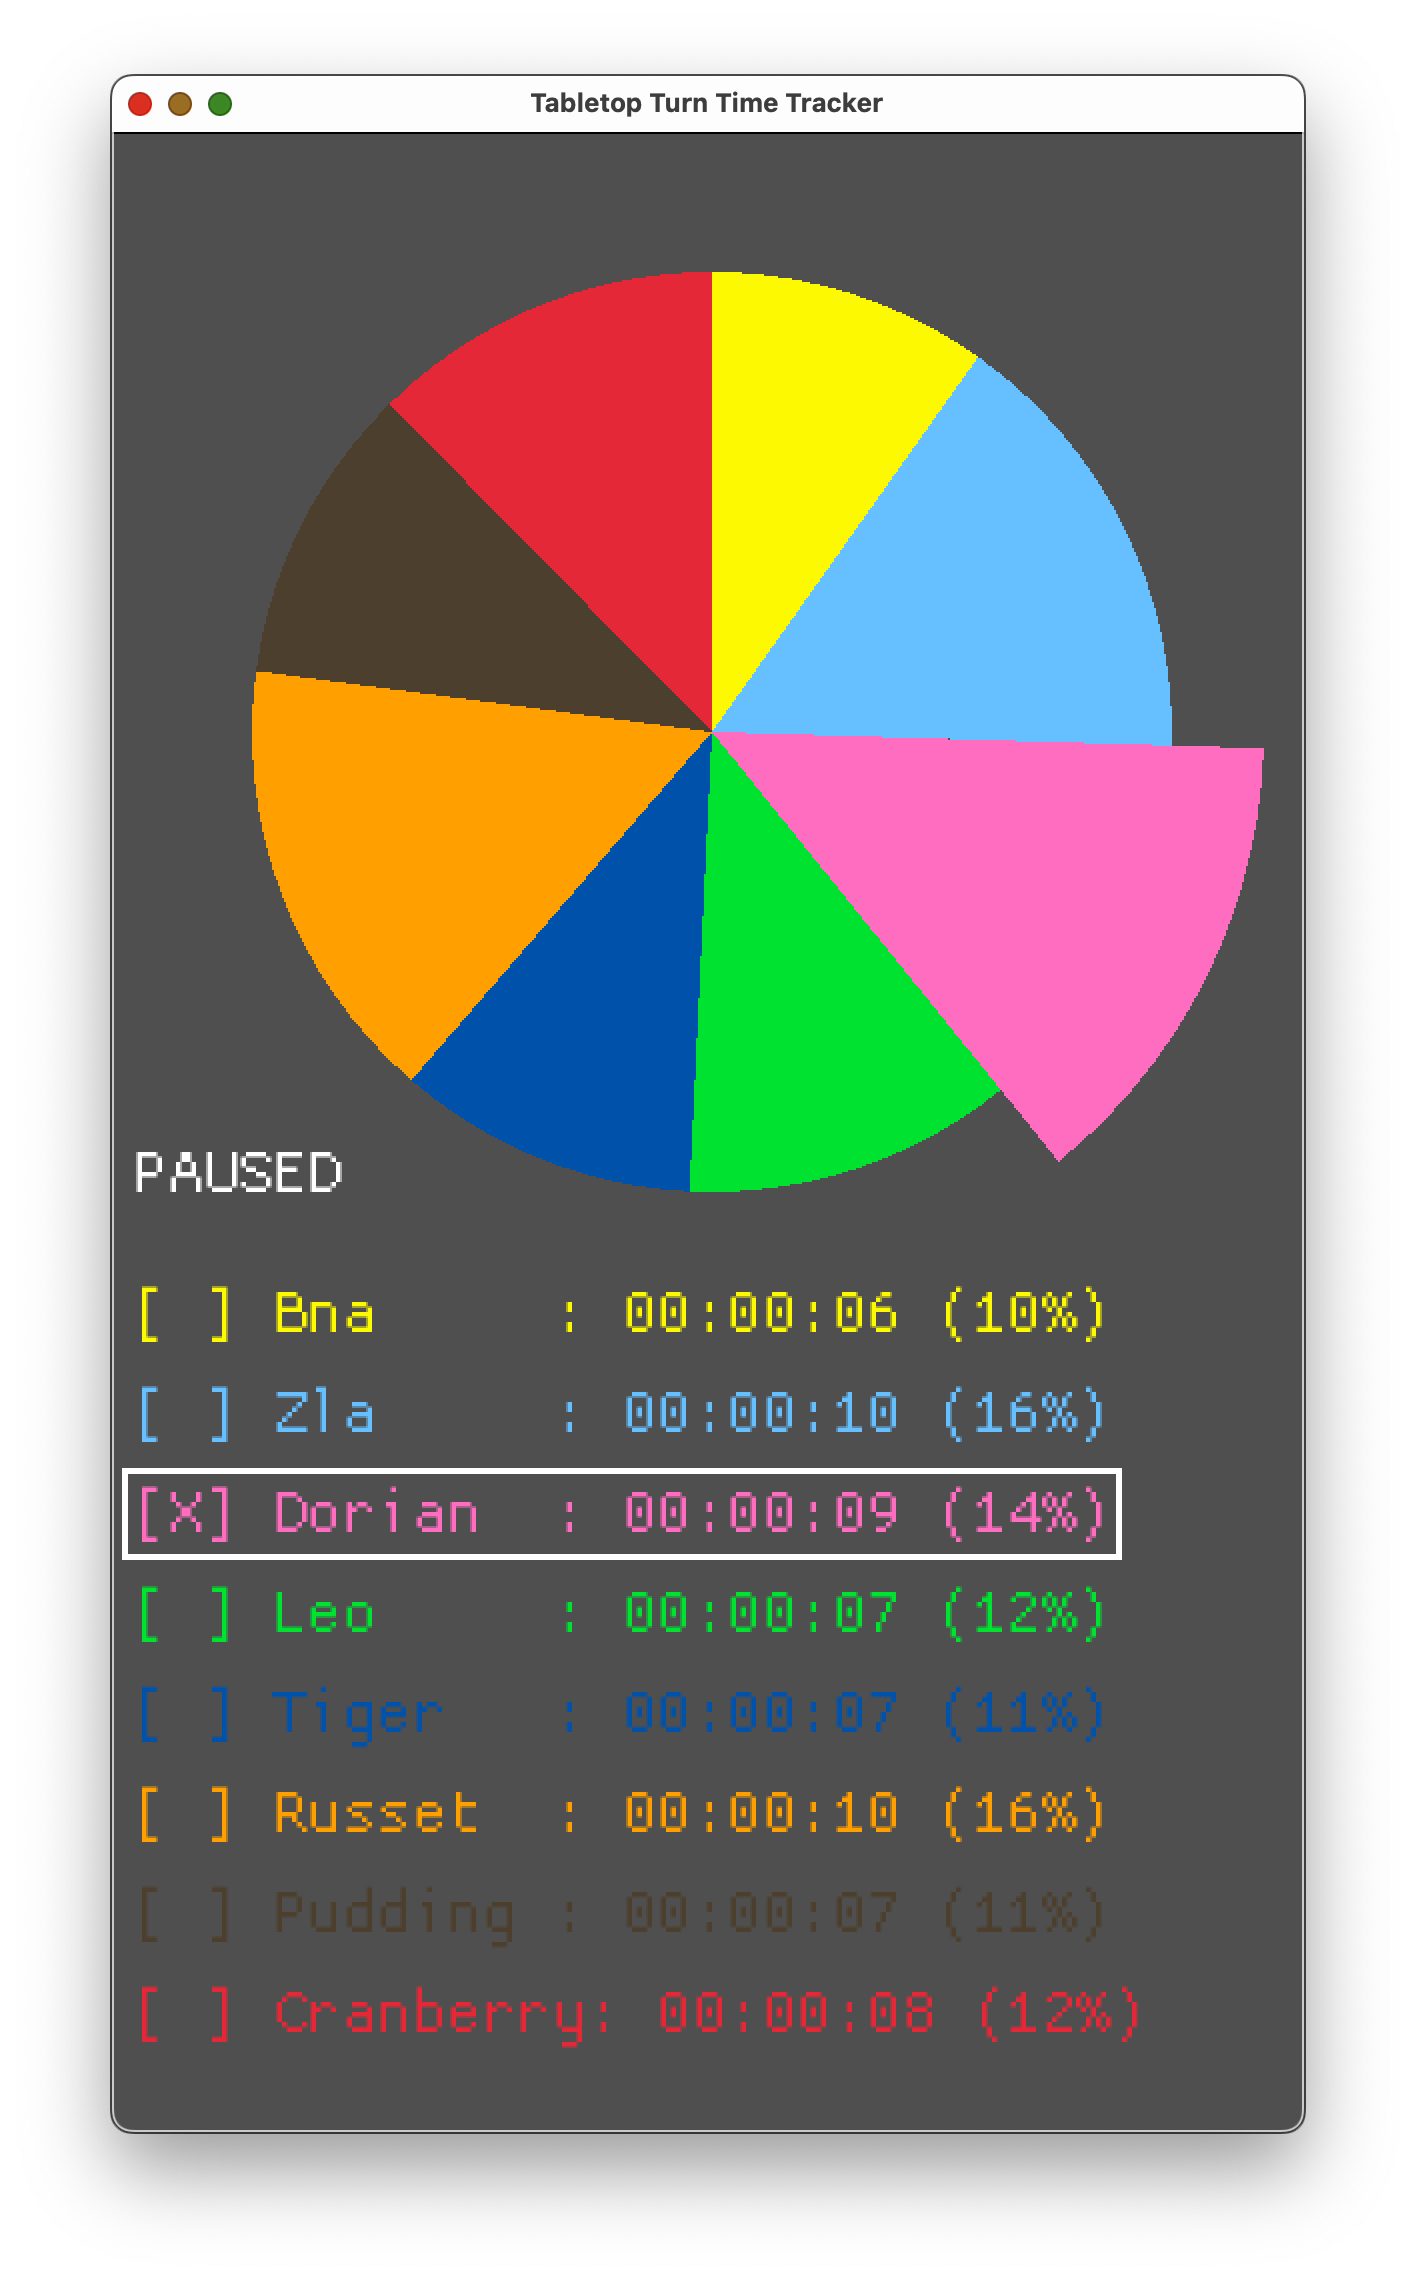
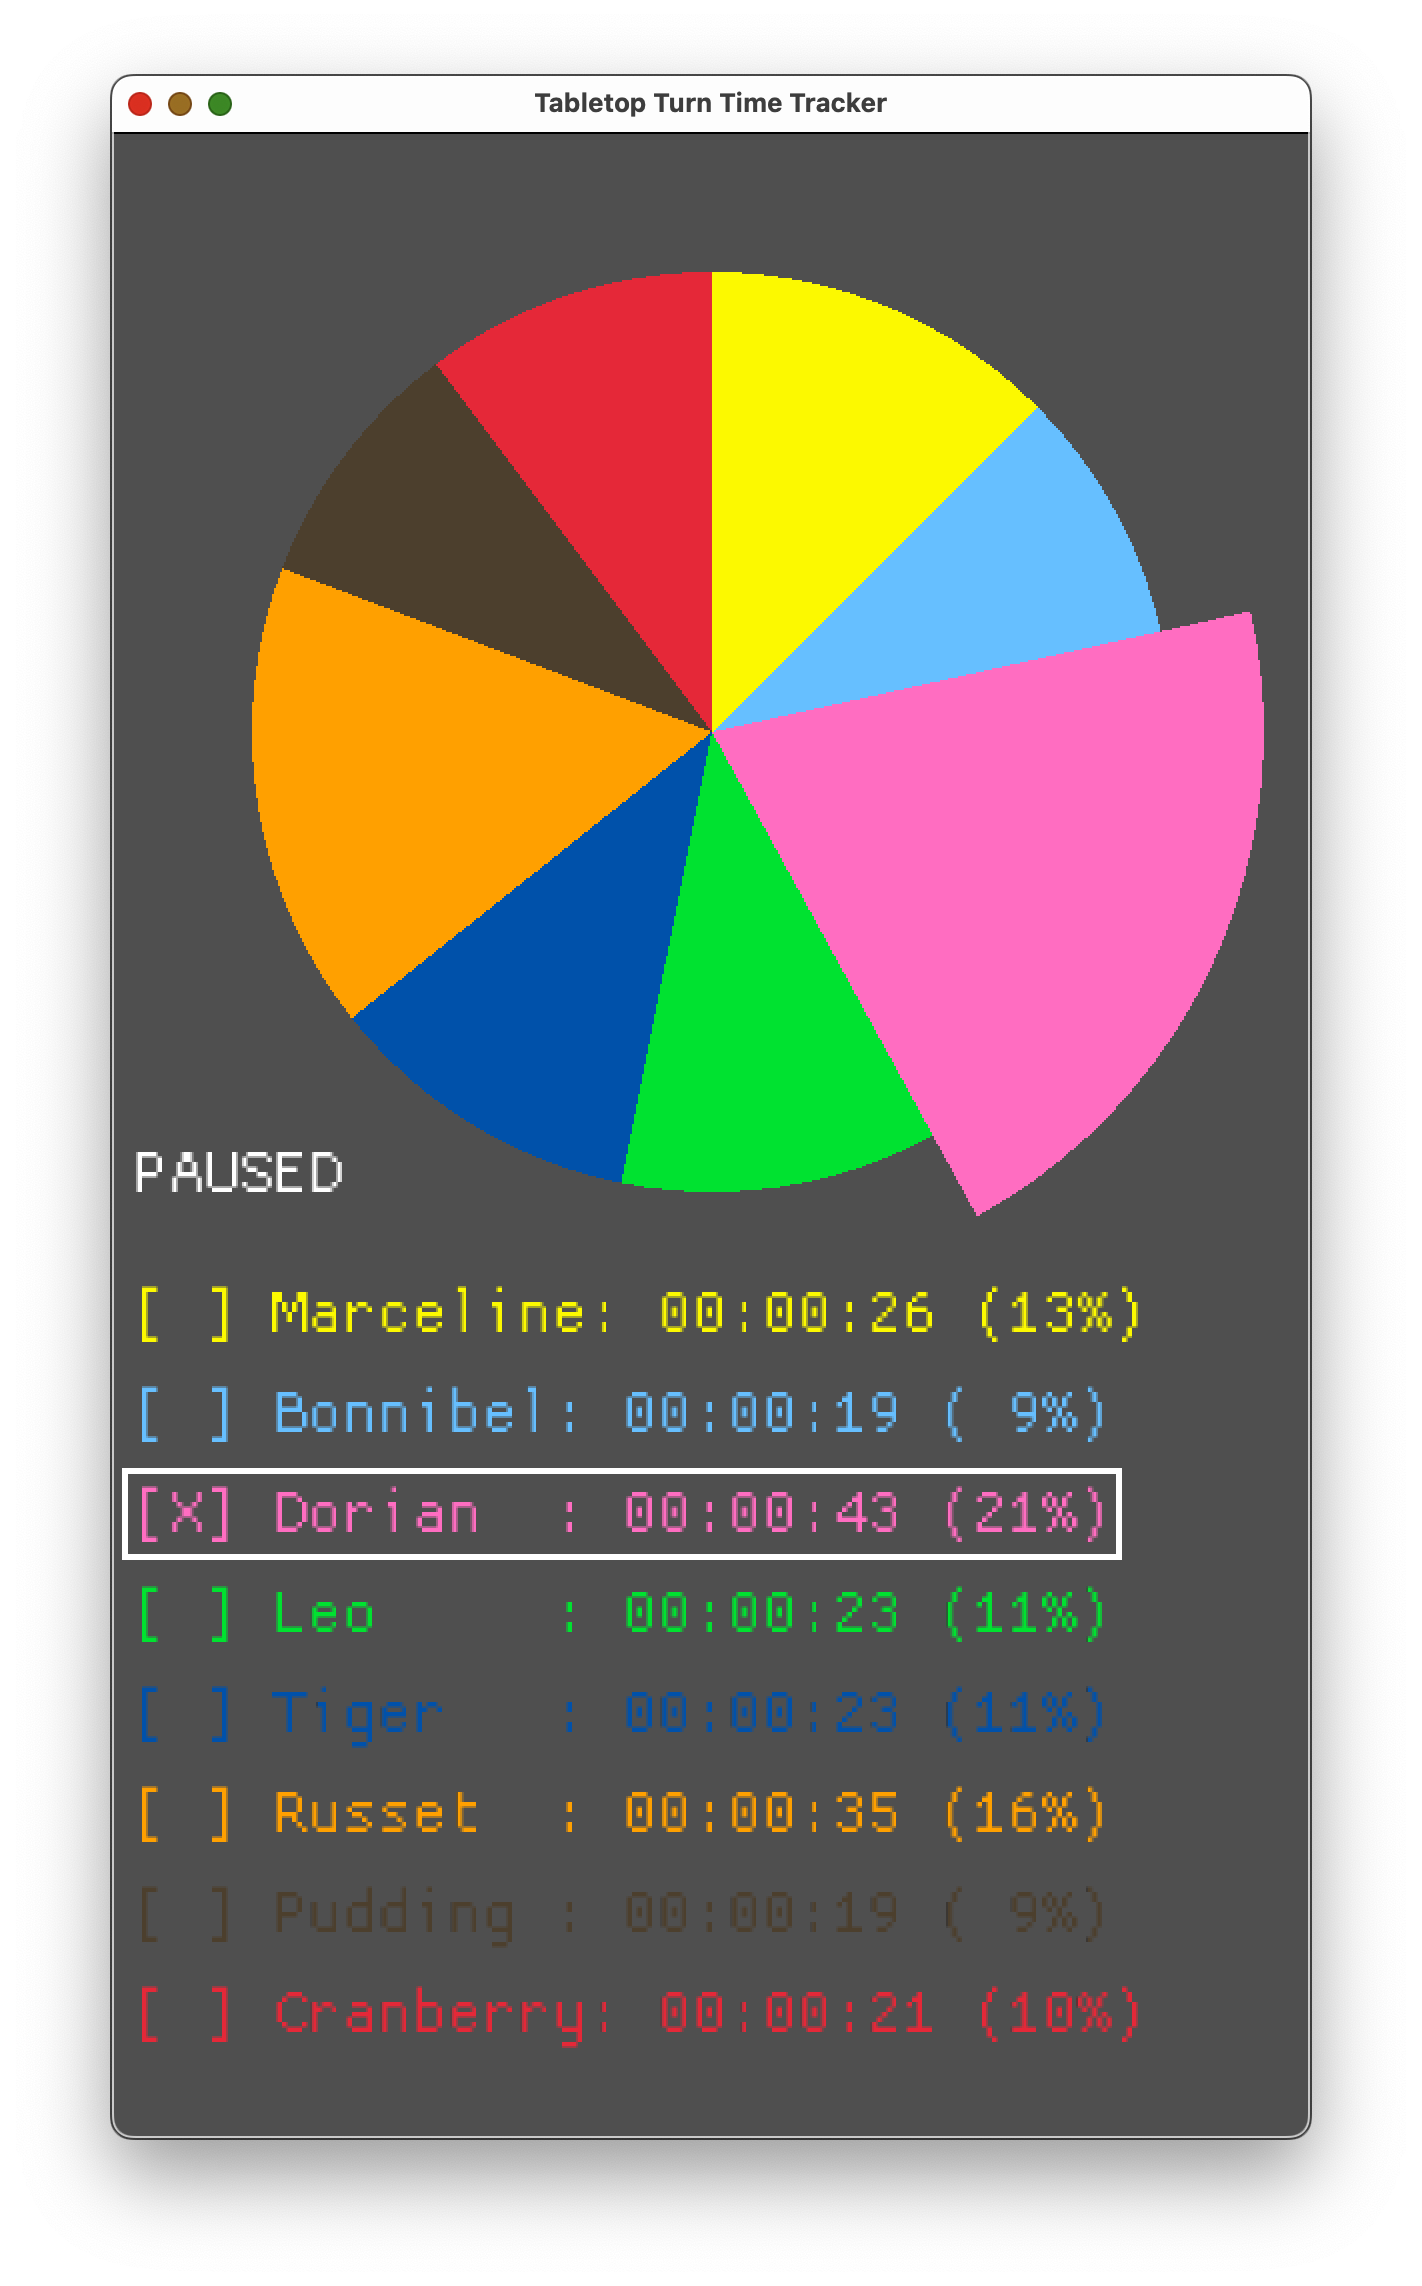
Change names in example

diff --git a/src/main.rs b/src/main.rs
@@ -12,8 +12,8 @@ async fn main() {
 
     // TODO:2 replace with dynamic player/color selection
     // https://github.com/not-fl3/particles-editor/blob/master/src/main.rs#L13-L130
-    state.add_player("Bna", mq::YELLOW);
-    state.add_player("Zla", mq::SKYBLUE);
+    state.add_player("Marceline", mq::YELLOW);
+    state.add_player("Bonnibel", mq::SKYBLUE);
     state.add_player("Dorian", mq::PINK);
     state.add_player("Leo", mq::GREEN);
     state.add_player("Tiger", mq::DARKBLUE);
